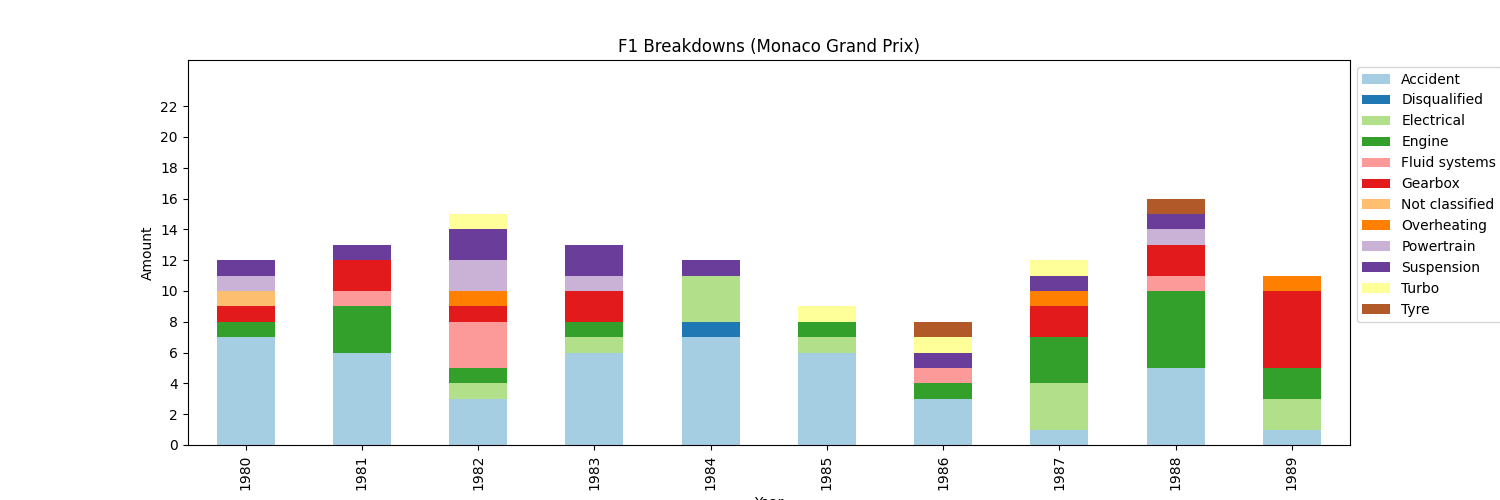
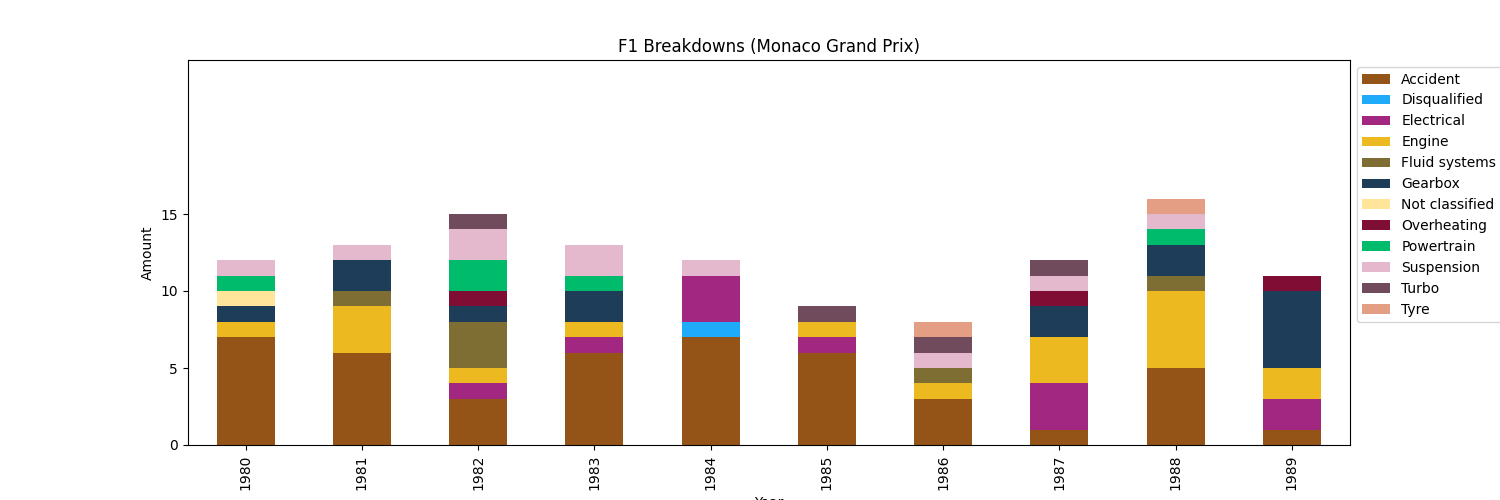
Graph Data Color fix

diff --git a/main.py b/main.py
@@ -1,6 +1,7 @@
 import pandas as pd
 import matplotlib.pyplot as plt
 import seaborn as sns
+import numpy as np
 from f1data import getdata
 import os
 
@@ -13,7 +14,12 @@ if not os.path.exists(os.path.join(path,r'turbo_era.csv')):
     getdata(1980, 1990).to_csv(os.path.join(path,r'turbo_era.csv'), index=False)
     getdata(2014, 2024).to_csv(os.path.join(path,r'hybrid_era.csv'), index=False)
 
-# analysing data
+custom_colors = [   '#945417', '#1eabfa', '#a22780', '#ecb920',
+                    '#7f6e34', '#1e3d59', '#c5521b', '#800e34',
+                    '#00bb6c', '#e28fc3', '#704b5b', '#e39e83',
+                    '#baccc6', '#77ad95', '#eee9db', '#ee4769']
+
+
 for file in os.listdir(path):
     if file.endswith('.csv'):
         df_data = pd.read_csv(os.path.join(path,file))
@@ -25,8 +31,8 @@ for file in os.listdir(path):
         # pivot data
         df_data_ds = df_data_ds.pivot(index='year', columns='status', values='counts')
         
-        # plot data with 16 different colors
-        df_data_ds.plot(kind='bar', stacked=True, figsize=(15, 5), color=sns.color_palette('Paired', 32))
+        # plot data
+        df_data_ds.plot(kind='bar', stacked=True, figsize=(15, 5), color=custom_colors)
         if file == 'turbo_era.csv':
             plt.title('F1 Breakdowns (1980 - 1990)')
             plt.ylim(0, 300)
@@ -41,34 +47,27 @@ for file in os.listdir(path):
         plt.legend(bbox_to_anchor=(0.9999, 1))
         plt.savefig(os.path.join(plotpath, file[:-4] + '.png'))
 
-        # group data by circuit and status and year
-        df_data_ds = df_data.groupby(['year', 'circuit', 'status']).size().reset_index(name='counts')
+        # # group data by circuit and status and year
+        # df_data_ds = df_data.groupby(['year', 'circuit', 'status']).size().reset_index(name='counts')
         
-        # licircuits = ['Australian Grand Prix', 'Austrian Grand Prix', 'Belgian Grand Prix', 'Brazilian Grand Prix',
-        #               'British Grand Prix', 'Canadian Grand Prix', 'Dutch Grand Prix', 'European Grand Prix',
-        #               'French Grand Prix', 'German Grand Prix', 'Hungarian Grand Prix', 'Italian Grand Prix',
-        #               'Japanese Grand Prix', 'Mexican Grand Prix', 'Monaco Grand Prix','Portuguese Grand Prix',
-        #               'Spanish Grand Prix', 'United States Grand Prix']
+        # licircuits = ['Austrian Grand Prix', 'Belgian Grand Prix', 'British Grand Prix',
+        #               'Canadian Grand Prix', 'Italian Grand Prix', 'Monaco Grand Prix']
         
-        licircuits = ['Austrian Grand Prix', 'Belgian Grand Prix', 'British Grand Prix',
-                      'Canadian Grand Prix', 'Italian Grand Prix', 'Monaco Grand Prix']
-        
-        # filter data for only circuits int the list
-        df_data_ds = df_data_ds[df_data_ds['circuit'].isin(licircuits)]
+        # # filter data for only circuits in the list
+        # df_data_ds = df_data_ds[df_data_ds['circuit'].isin(licircuits)]
 
-        # pivot data for each circuit
-        for circuit in df_data_ds['circuit'].unique():
-            df_data_ds_circuit = df_data_ds[df_data_ds['circuit'] == circuit]
-            df_data_ds_circuit = df_data_ds_circuit.pivot(index='year', columns='status', values='counts')
+        # # pivot data for each circuit
+        # for circuit in df_data_ds['circuit'].unique():
+        #     df_data_ds_circuit = df_data_ds[df_data_ds['circuit'] == circuit]
+        #     df_data_ds_circuit = df_data_ds_circuit.pivot(index='year', columns='status', values='counts')
             
-            # plot data
-            df_data_ds_circuit.plot(kind='bar', stacked=True, figsize=(15, 5), color=sns.color_palette('Paired'))
-            plt.title('F1 Breakdowns (' + str(circuit) + ')')
-            plt.xlabel('Year')
-            plt.ylabel('Amount')
-            plt.ylim(0, 25)
-            plt.yticks(range(0, 24, 2))
-            plt.legend(bbox_to_anchor=(0.9999, 1))
-            plt.savefig(os.path.join(circuitpath, file[:-4] + '_' + str(circuit) + '.png'))
-            plt.close()
+        #     # plot data
+        #     df_data_ds_circuit.plot(kind='bar', stacked=True, figsize=(15, 5), color=custom_colors)
+        #     plt.title('F1 Breakdowns (' + str(circuit) + ')')
+        #     plt.xlabel('Year')
+        #     plt.ylabel('Amount')
+        #     plt.ylim(0, 25)
+        #     plt.yticks(range(0, 20, 5))
+        #     plt.legend(bbox_to_anchor=(0.9999, 1))
+        #     plt.savefig(os.path.join(circuitpath, file[:-4] + '_' + str(circuit) + '.png'))
         
